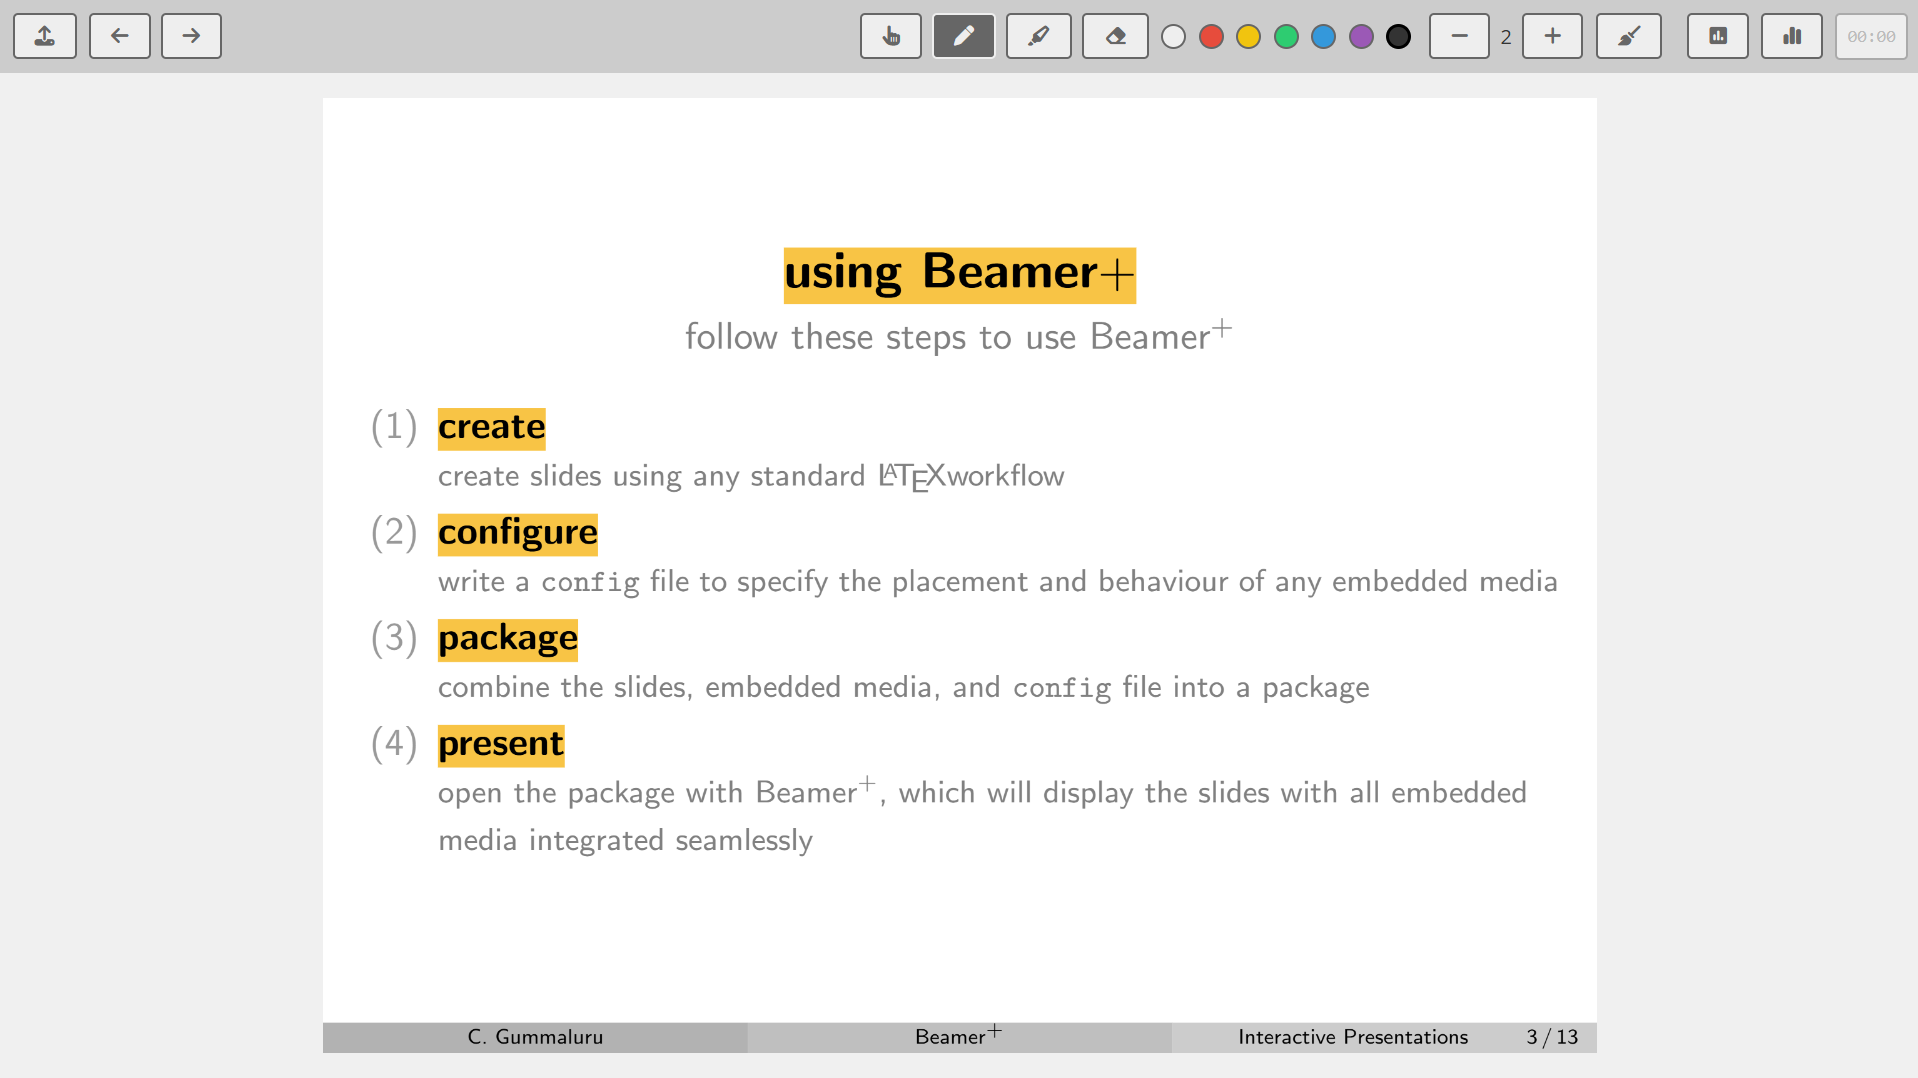
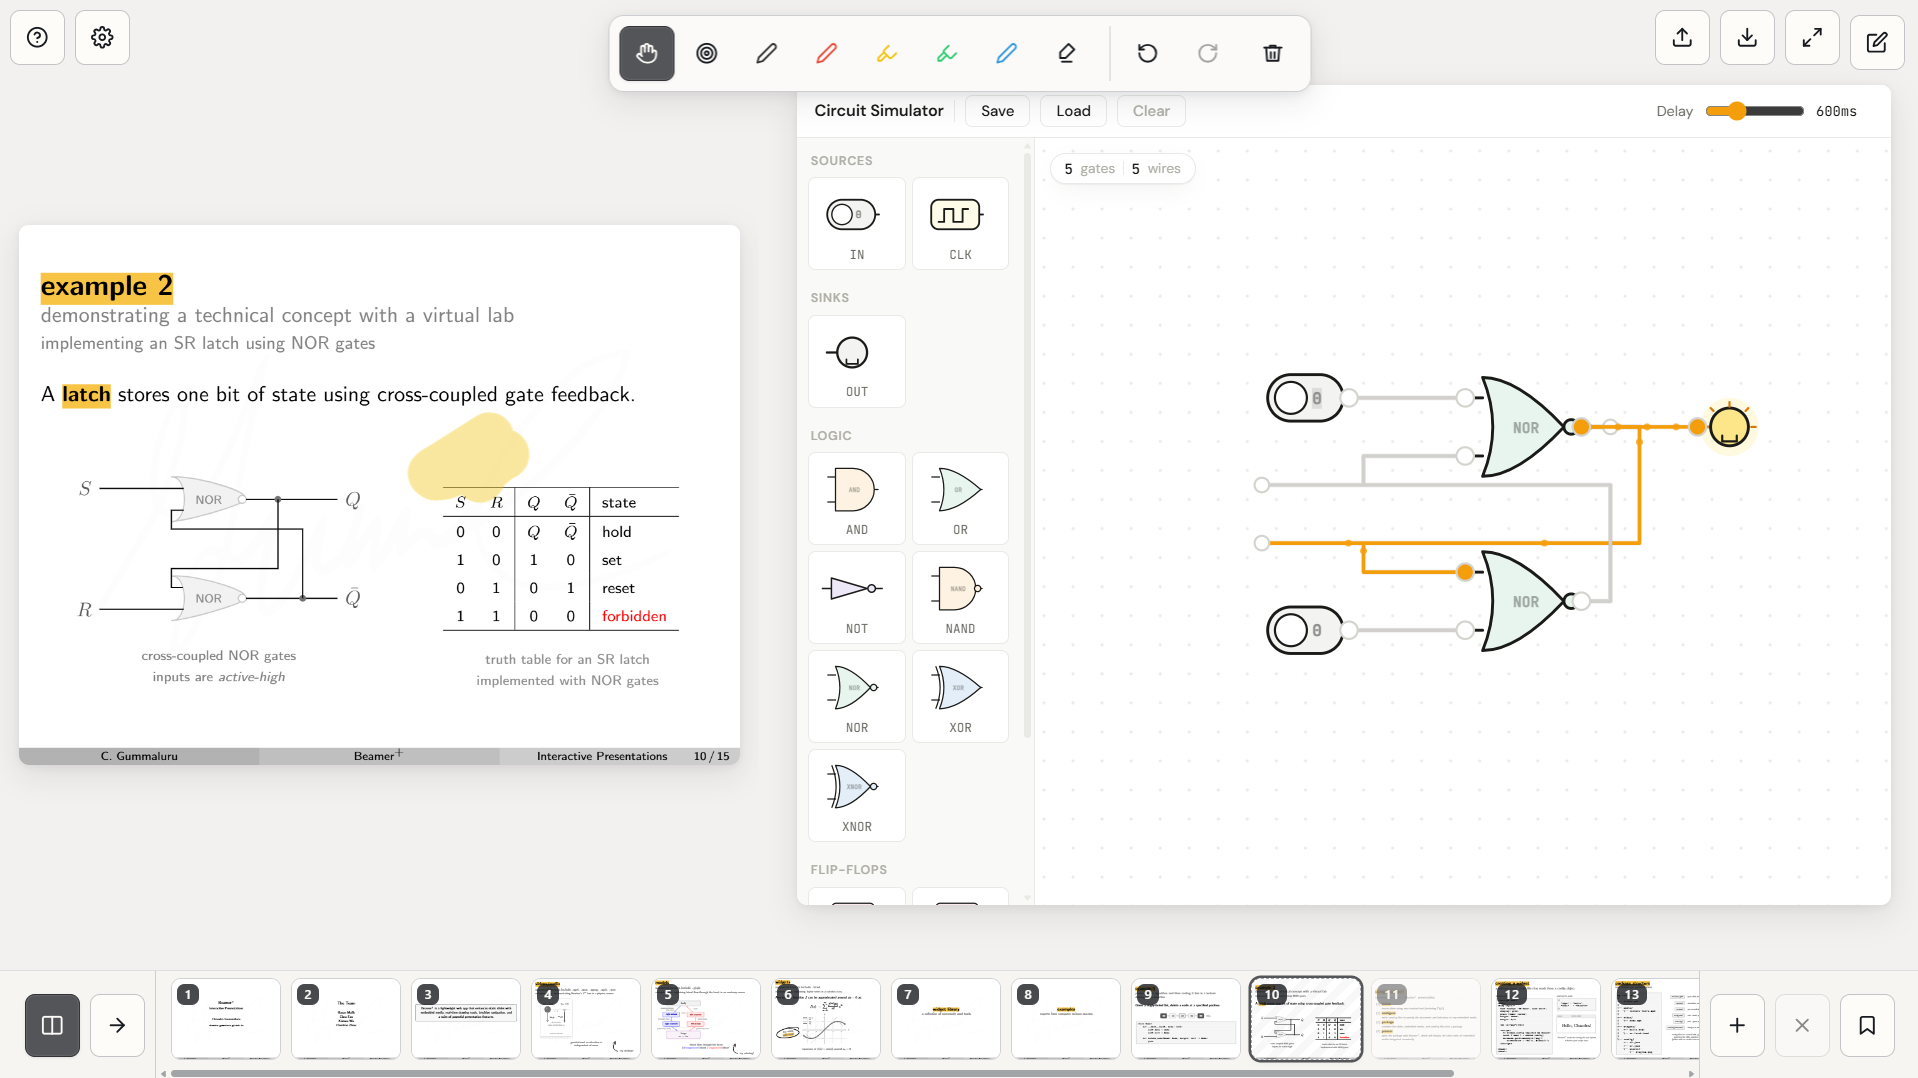
Beamer+ update.

diff --git a/post/beamer-plus.html b/post/beamer-plus.html
@@ -50,7 +50,7 @@
             <section class="content-block">
                 <div class="block-content">
                     <p style="font-size: 1.25rem; line-height: 1.8;">
-                        As someone who teaches and presents technical topics often, I found myself limited by the static nature of traditional Beamer slides. I wanted a more dynamic experience—something that could combine beautifully typeset slides with video playback, drawing, and annotation tools. That's why I created <strong>Beamer+</strong>.
+                        As someone who teaches and presents technical topics often, I found myself limited by the static nature of traditional LaTeX slides. I wanted a way to create a more dynamic experience that would allow me to seamlessly integrate videos, audio, and interactive widgets, while maintaining the beautiful typesetting of LaTeX. That's why I created <strong>Beamer+</strong>.
                     </p>
                 </div>
             </section>
@@ -59,7 +59,7 @@
             <section class="content-block">
                 <div class="block-content">
                     <h2>What Is Beamer+?</h2>
-                    <p><strong>Beamer+</strong> is a lightweight web-based presentation app built with Python and Flask that enhances your Beamer PDFs with the following features:</p>
+                    <p><strong>Beamer+</strong> is a lightweight web-based presentation app built with Python and Flask that enhances LaTex slides with the following features:</p>
                 </div>
             </section>
 
